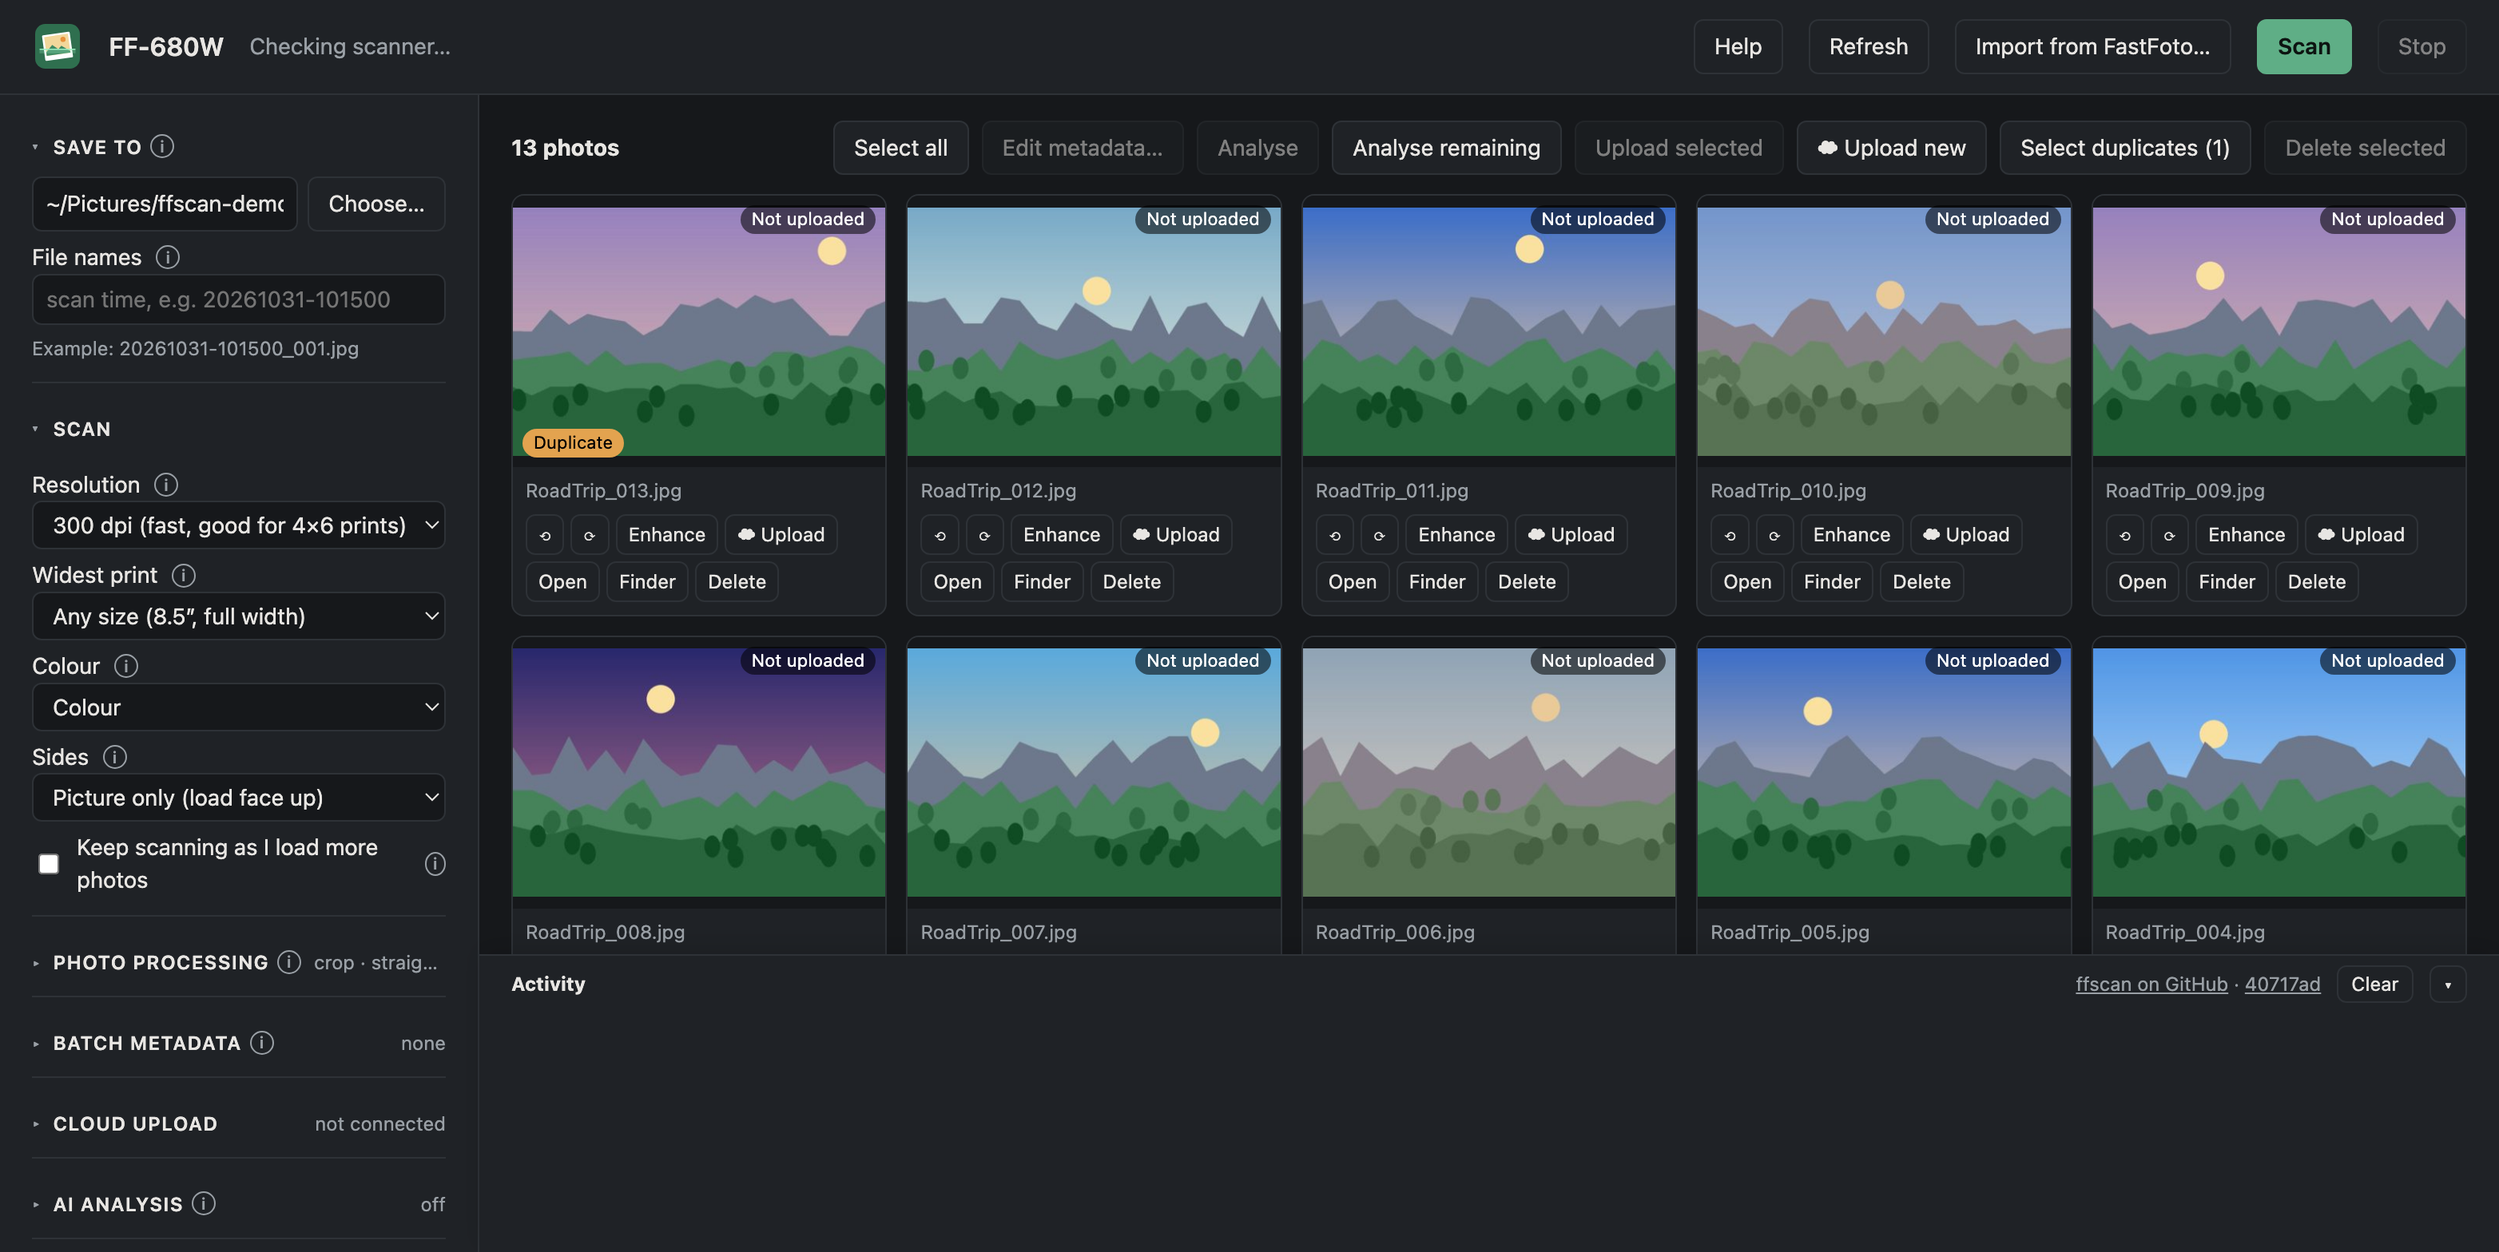
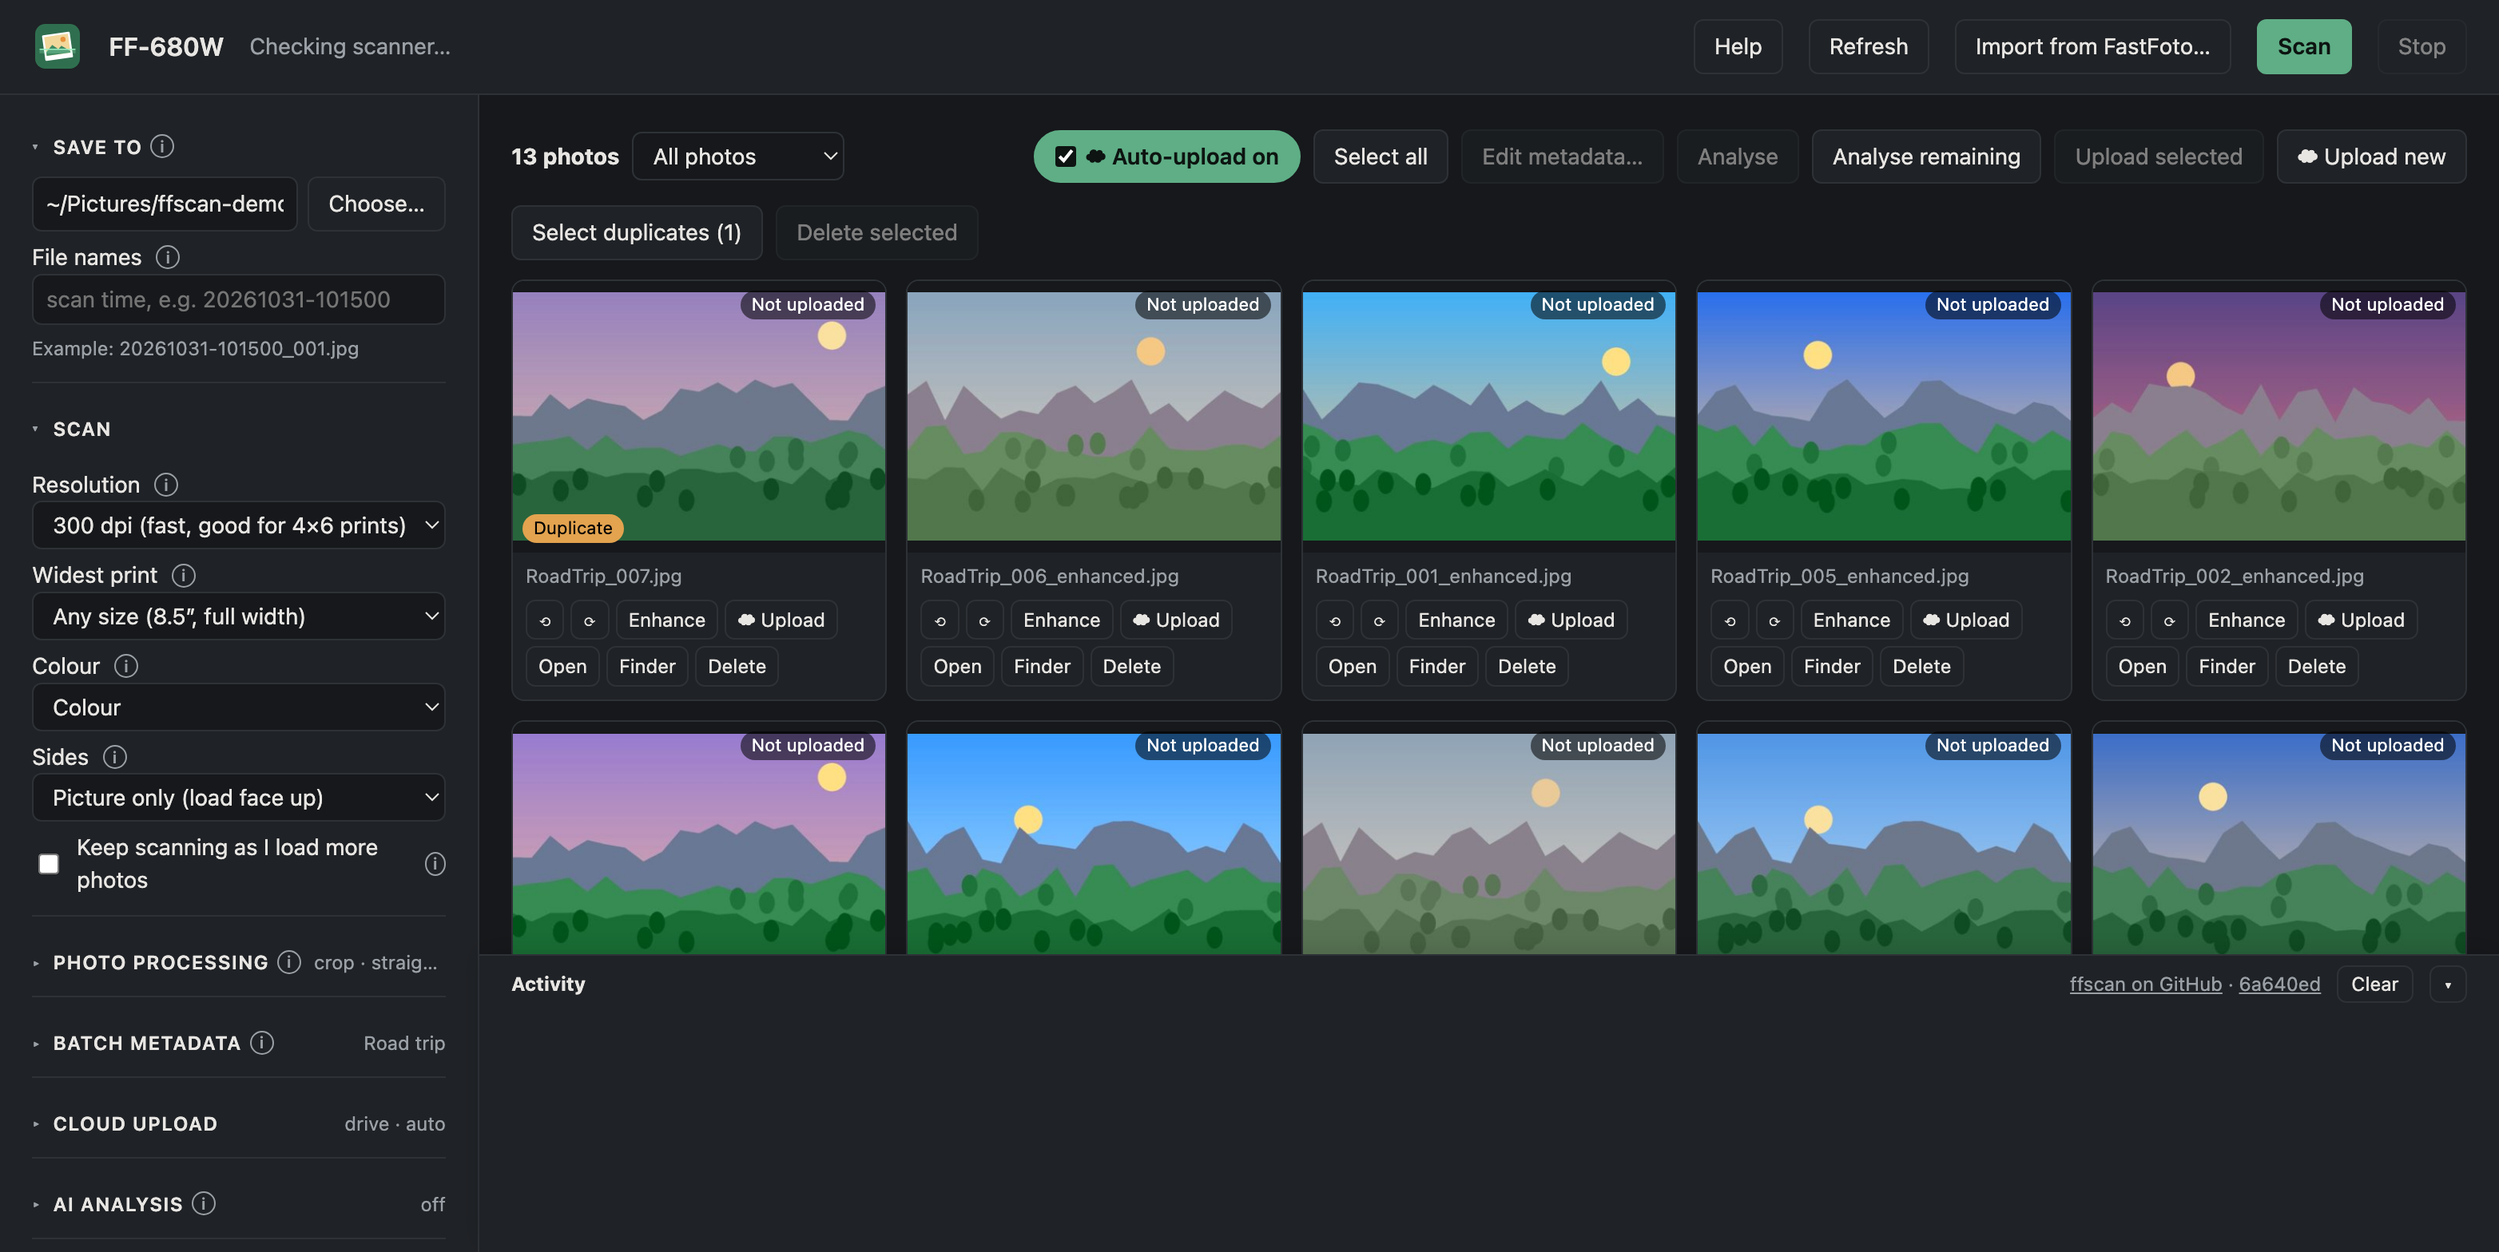
Enhance photo processing with GPS metadata support and improve UI for photo selection

diff --git a/ffscan/static/index.html b/ffscan/static/index.html
@@ -78,6 +78,12 @@
   section.content { padding: 16px 20px; overflow-y: auto; }
   .toolbar { display: flex; gap: 8px; align-items: center; margin-bottom: 12px; flex-wrap: wrap; }
   .toolbar .spacer { flex: 1; }
+  .autoup { display: inline-flex; align-items: center; gap: 6px; padding: 5px 12px; border: 1.5px solid var(--accent);
+            border-radius: 999px; color: var(--accent); font-weight: 600; cursor: pointer; white-space: nowrap; }
+  .autoup:has(input:checked) { background: var(--accent); color: var(--accent-ink); }
+  .autoup:has(input:disabled) { border-color: var(--line); color: var(--muted); cursor: default; }
+  .autoup input { margin: 0; accent-color: var(--accent-ink); }
+  #show { width: auto; }
   #grid { display: grid; grid-template-columns: repeat(auto-fill, minmax(220px, 1fr)); gap: 12px; }
   .card { background: var(--panel); border: 1px solid var(--line); border-radius: 8px; overflow: hidden; position: relative; }
   .card.selected { outline: 2px solid var(--accent); background: var(--sel); }
@@ -243,7 +249,12 @@
 
   <section class="content">
     <div class="toolbar">
-      <strong id="count">Photos</strong><span class="spacer"></span>
+      <strong id="count">Photos</strong>
+      <select id="show" title="Which photos to show">
+        <option value="all">All photos</option><option value="original">Originals only</option><option value="enhanced">Enhanced only</option>
+      </select>
+      <span class="spacer"></span>
+      <label class="autoup" id="autoUpload"><input type="checkbox" data-key="upload.enabled"> <span>☁ Auto-upload</span></label>
       <button id="selAll">Select all</button>
       <button id="editMeta" disabled>Edit metadata…</button>
       <button id="analyzeSel" disabled title="Analyse the selected photos with Claude (rotation, caption, tags, date, place)">Analyse</button>
@@ -414,6 +425,12 @@ function render() {
     .replace("{album}", settings.metadata?.album?.trim() || "Photos")
     .replace("{date}", new Date().toISOString().slice(0, 10)).replace(/[\\/:*?"<>|]+/g, "-");
   $("#namePreview").textContent = `Example: ${prefix || "20261031-101500"}_001.jpg`;
+  const remote = settings.upload?.remote;
+  $("#autoUpload input").disabled = !remote;
+  $("#autoUpload span").textContent = `☁ Auto-upload ${remote && settings.upload.enabled ? "on" : "off"}`;
+  $("#autoUpload").title = remote
+    ? `Upload every new photo to ${settings.upload.remote} as soon as it's ready. Same as the setting under Cloud upload.`
+    : "Connect a cloud account under Cloud upload first";
   updateSummaries();
 }
 
@@ -777,11 +794,13 @@ function card(file, rotation) {
       } else if (a === "reveal") {
         await post("/api/reveal", { file });
       } else if (a === "cloudlink") {
+        const link = () => api(`/api/cloud_link?file=${encodeURIComponent(file)}`).then(r => r.url);
+        if (window.pywebview) return openExternal(await link());
         const w = window.open("", "_blank");  // opened now: a window opened after the await would be blocked
-        try { w.location = (await api(`/api/cloud_link?file=${encodeURIComponent(file)}`)).url; }
+        try { w.location = await link(); }
         catch (e) { w.close(); throw e; }
       } else if (a === "open") {
-        window.open(fileUrl(file), "_blank");
+        openExternal(fileUrl(file));
       } else if (a === "delete" && confirm(`Move ${name} to the Trash?`)) {
         await post("/api/delete", { file }); el.remove(); selected.delete(file); updateToolbar();
       }
@@ -789,11 +808,17 @@ function card(file, rotation) {
   };
   return el;
 }
+// The Mac app window (pywebview) drops window.open(): it hands the URL to the system browser instead.
+function openExternal(url) {
+  url = new URL(url, location.href).href;
+  window.pywebview ? window.pywebview.api.open_url(url) : window.open(url, "_blank");
+}
 function addPhoto(file, rotation, top = true, upload = null, dest = null, duplicateOf = null) {
   if (document.querySelector(`.card[data-file="${CSS.escape(file)}"]`)) return;
   $(".empty")?.remove();
   const g = $("#grid"), c = card(file, rotation);
   top ? g.prepend(c) : g.append(c);
+  showIfFiltered(c);
   setCloud(file, upload, dest);
   if (duplicateOf) {
     c.dataset.duplicateOf = duplicateOf;
@@ -839,14 +864,26 @@ async function loadPhotos() {
   updateToolbar();
 }
 function updateToolbar() {
-  const n = document.querySelectorAll(".card").length;
+  const n = document.querySelectorAll(".card:not([hidden])").length;
   $("#count").textContent = `${n} photo${n === 1 ? "" : "s"}` + (selected.size ? ` · ${selected.size} selected` : "");
   $("#editMeta").disabled = $("#uploadSel").disabled = $("#analyzeSel").disabled = $("#deleteSel").disabled = !selected.size;
-  const dupes = document.querySelectorAll(".card[data-duplicate-of]").length;
+  const dupes = document.querySelectorAll(".card[data-duplicate-of]:not([hidden])").length;
   $("#selDupes").textContent = `Select duplicates${dupes ? ` (${dupes})` : ""}`; $("#selDupes").disabled = !dupes;
 }
+// ---------- gallery filter: all photos, originals only or enhanced copies only (remembered per viewer)
+$("#show").value = store.get("show", "all");
+function showIfFiltered(c) {
+  const v = $("#show").value, enhanced = /_enhanced\.jpg$/i.test(c.dataset.file);
+  c.hidden = v !== "all" && (v === "enhanced") !== enhanced;
+  if (c.hidden && selected.delete(c.dataset.file)) c.classList.remove("selected");  // never act on hidden photos
+}
+$("#show").onchange = () => {
+  store.set("show", $("#show").value);
+  document.querySelectorAll(".card").forEach(showIfFiltered);
+  updateToolbar();
+};
 $("#selAll").onclick = () => {
-  const cards = document.querySelectorAll(".card"), all = selected.size !== cards.length;
+  const cards = document.querySelectorAll(".card:not([hidden])"), all = selected.size !== cards.length;
   cards.forEach(c => { c.classList.toggle("selected", all); all ? selected.add(c.dataset.file) : selected.delete(c.dataset.file); });
   updateToolbar();
 };
@@ -879,7 +916,7 @@ $("#analyzeSel").onclick = async () => {
   catch (e) { log(e.message, true); }
 };
 $("#selDupes").onclick = () => {
-  document.querySelectorAll(".card").forEach(c => {
+  document.querySelectorAll(".card:not([hidden])").forEach(c => {
     const dup = "duplicateOf" in c.dataset;
     c.classList.toggle("selected", dup); dup ? selected.add(c.dataset.file) : selected.delete(c.dataset.file);
   });

diff --git a/ffscan/static/help.html b/ffscan/static/help.html
@@ -174,11 +174,15 @@
   <li>FastFoto saves <code>Name_0001.jpg</code> (the scan), <code>Name_0001_a.jpg</code> (its enhanced copy) and
     <code>Name_0001_b.jpg</code> (the back). ffscan imports the scan and its back, and makes its own enhanced copy.</li>
   <li>The album name starts as the folder's name. FastFoto's files are copied, never changed or moved.</li>
+  <li>Everything already stored in FastFoto's files, such as the date or a GPS location, is kept, in the enhanced copy too.
+    With AI analysis on, a GPS location is used to name the place and mention it in the caption.</li>
 </ul>
 
 <h2 id="photos">Working with scanned photos</h2>
 <table>
   <tr><th>Action</th><th>What it does</th></tr>
+  <tr><td>All photos / Originals only / Enhanced only</td><td>Choose which photos the grid shows (next to the photo count). Select all, Select duplicates and the photo count only include what's shown.</td></tr>
+  <tr><td>☁ Auto-upload on/off</td><td>Turns automatic upload on or off right from the photo toolbar; the same setting as <em>Upload each photo automatically</em> under Cloud upload. Greyed out until a cloud account is connected.</td></tr>
   <tr><td>Click a thumbnail</td><td>Select or deselect it. <strong>Select all</strong> toggles every photo.</td></tr>
   <tr><td>⟲ ⟳</td><td>Rotate 90° left or right (lossless).</td></tr>
   <tr><td>Enhance</td><td>Save an enhanced copy next to the photo; the original stays.</td></tr>
@@ -236,7 +240,7 @@
     the photo's Headline. Analysing a photo again replaces the old caption.</li>
   <li>Each print is analysed <strong>once</strong>, on the original scan; the enhanced copy gets the same results.</li>
   <li><strong>Estimates when</strong> the photo was taken from clothes, cars, print style and colour. A year goes into the date field; a decade becomes a tag like <code>c. 1980s</code>.</li>
-  <li><strong>Guesses the place</strong> when it's recognisable.</li>
+  <li><strong>Names the place</strong>: from the photo's GPS location when it has one (e.g. imported from FastFoto), otherwise when it's recognisable.</li>
   <li><strong>Reads the back</strong> only when on-device reading found writing it couldn't read.</li>
 </ul>
 <p>It only fills <em>empty</em> fields. Anything you typed in the batch metadata is kept. To analyse photos scanned earlier, select them and press <strong>Analyse</strong>.</p>

diff --git a/ffscan/app.py b/ffscan/app.py
@@ -206,7 +206,20 @@ def read_back(raw_back, s):
 
 
 def enhance(src, dst, s):
-    return enhancer.enhance(src, dst, **s["enhance_opts"])
+    """Enhanced copy with all of the original's metadata (dates, GPS from imported photos, rotation)."""
+    steps = enhancer.enhance(src, dst, **s["enhance_opts"])
+    run(["exiftool", "-q", "-overwrite_original", "-tagsFromFile", str(src), "-all:all", str(dst)])
+    return steps
+
+
+def gps_of(path):
+    """(latitude, longitude) in decimal degrees stored in the photo (e.g. imported from FastFoto), or None."""
+    out = run(["exiftool", "-s3", "-n", "-GPSLatitude", "-GPSLongitude", str(path)]).split()
+    try:
+        lat, lon = map(float, out)
+    except ValueError:  # no GPS (or only one of the two)
+        return None
+    return None if lat == lon == 0 else (lat, lon)
 
 
 METADATA_TAGS = {
@@ -517,7 +530,7 @@ def analyze_photo(path, files, raw_back, rotation_decided, s):
     if problem:
         raise RuntimeError(problem)
     result = photo_ai.analyze(path, back_with_writing(raw_back, s), provider=ai["provider"], project=ai["project"],
-                              region=ai["region"], model=ai["model"])
+                              region=ai["region"], model=ai["model"], gps=gps_of(path))
     existing = read_metadata(path)  # batch description and text read from the back on-device
     md = photo_ai.to_metadata(result, {**s["metadata"], "date": s["metadata"]["date"] or existing["date"]})
     # the caption always goes in: first line of the description (before the batch description and back text)
@@ -952,7 +965,6 @@ def enhance_one(body: dict):
         p = safe_path(str(original))
     out = enhanced_path(p, s, create=True)
     steps = enhance(p, out, s)
-    run(["exiftool", "-q", "-overwrite_original", "-tagsFromFile", str(p), "-all:all", str(out)])  # keep metadata + rotation
     emit("photo", file=str(out), index=-1, side="B", rotation=get_rotation(out))
     return {"file": str(out), "steps": steps}
 

diff --git a/ffscan/photo_ai.py b/ffscan/photo_ai.py
@@ -30,6 +30,8 @@ The picture is shown exactly as the scanner stored it, which may be sideways or 
   Use clues like film colour cast, print border style, clothing, cars, technology.
 - date_confidence: low, medium or high.
 - place: the place if recognisable (landmark, city, country) or clearly indicated, otherwise "".
+  When the photo's GPS position is given, use it: name the place there (landmark or area, city, country), and
+  mention it in the caption too.
 - back_text: handwriting, stamps or stickers on the back, transcribed as written (any language).
   Ignore paper-maker watermarks (Kodak, Fuji, DNP...) and machine-printed lab codes. "" if none or no back.
 - back_date: a date written on the back as YYYY, YYYY-MM or YYYY-MM-DD, otherwise "".
@@ -77,11 +79,13 @@ def _image_block(path, max_side=1568):
                                          "data": base64.standard_b64encode(buf.getvalue()).decode()}}
 
 
-def analyze(picture, back=None, *, provider="anthropic", project=None, region="global", model=MODEL):
-    """Return the parsed analysis dict for one print (picture path, optional back path)."""
+def analyze(picture, back=None, *, provider="anthropic", project=None, region="global", model=MODEL, gps=None):
+    """Return the parsed analysis dict for one print (picture path, optional back path, optional (lat, lon))."""
     content = [{"type": "text", "text": "Picture side:"}, _image_block(picture)]
     if back:
         content += [{"type": "text", "text": "Back of the same print:"}, _image_block(back)]
+    if gps:
+        content.append({"type": "text", "text": f"GPS position stored with the photo: {gps[0]:.6f}, {gps[1]:.6f}"})
     content.append({"type": "text", "text": "Catalogue this photo."})
     # Claude API: server-side fallback if the model declines; Vertex uses the client middleware instead
     fallback = {} if provider == "vertex" else {"betas": ["server-side-fallback-2026-07-01"], "fallbacks": "default"}

diff --git a/ffscan/desktop.py b/ffscan/desktop.py
@@ -42,6 +42,15 @@ def show_running():
     webbrowser.open(URL)
 
 
+class PageApi:
+    """Called from the page as window.pywebview.api.*"""
+
+    def open_url(self, url):
+        """window.open() does nothing in the app window: open photos and cloud links in the default browser."""
+        if url.startswith(("http://", "https://")):  # never file:// or app schemes from page input
+            webbrowser.open(url)
+
+
 def main():
     if port_in_use():
         show_running()
@@ -63,7 +72,8 @@ def main():
     threading.Thread(target=server.run, daemon=True).start()
     while not server.started:
         time.sleep(0.05)
-    window = webview.create_window("FF-680W Scanner", URL, width=1400, height=900, min_size=(800, 600))
+    window = webview.create_window("FF-680W Scanner", URL, width=1400, height=900, min_size=(800, 600),
+                                   js_api=PageApi())
     window.events.closing += on_closing
     # Keep the page's own storage (minimised log, last tab) between launches.
     webview.start(private_mode=False, storage_path=str(ffscan.DATA_DIR / "webview"))

diff --git a/tests/test_ffscan.py b/tests/test_ffscan.py
@@ -222,4 +222,17 @@ from ffscan import cloud
 cloud.remote_type = lambda name: {"db": "dropbox", "s3": "s3"}[name]
 assert cloud.web_url("db:FastFoto/Summer 87/x 1.jpg") == "https://www.dropbox.com/home/FastFoto/Summer%2087?preview=x%201.jpg"
 assert cloud.web_url("s3:bucket/x.jpg") is None
+# Imported photos may carry GPS: enhanced copies keep it, and gps_of reads it for the AI analysis
+import shutil
+if shutil.which("exiftool"):
+    with tempfile.TemporaryDirectory() as d:
+        src, dst = Path(d) / "x.jpg", Path(d) / "x_enhanced.jpg"
+        Image.new("RGB", (64, 48), (120, 90, 60)).save(src)
+        assert app.gps_of(src) is None
+        app.run(["exiftool", "-q", "-overwrite_original", "-GPSLatitude=49.7075", "-GPSLatitudeRef=N",
+                 "-GPSLongitude=0.2034", "-GPSLongitudeRef=W", str(src)])
+        assert app.gps_of(src) == (49.7075, -0.2034)
+        app.enhance(src, dst, {"enhance_opts": {"red_eye": False, "restore": True, "auto": True}})
+        assert app.gps_of(dst) == (49.7075, -0.2034)
+
 print("ok")
